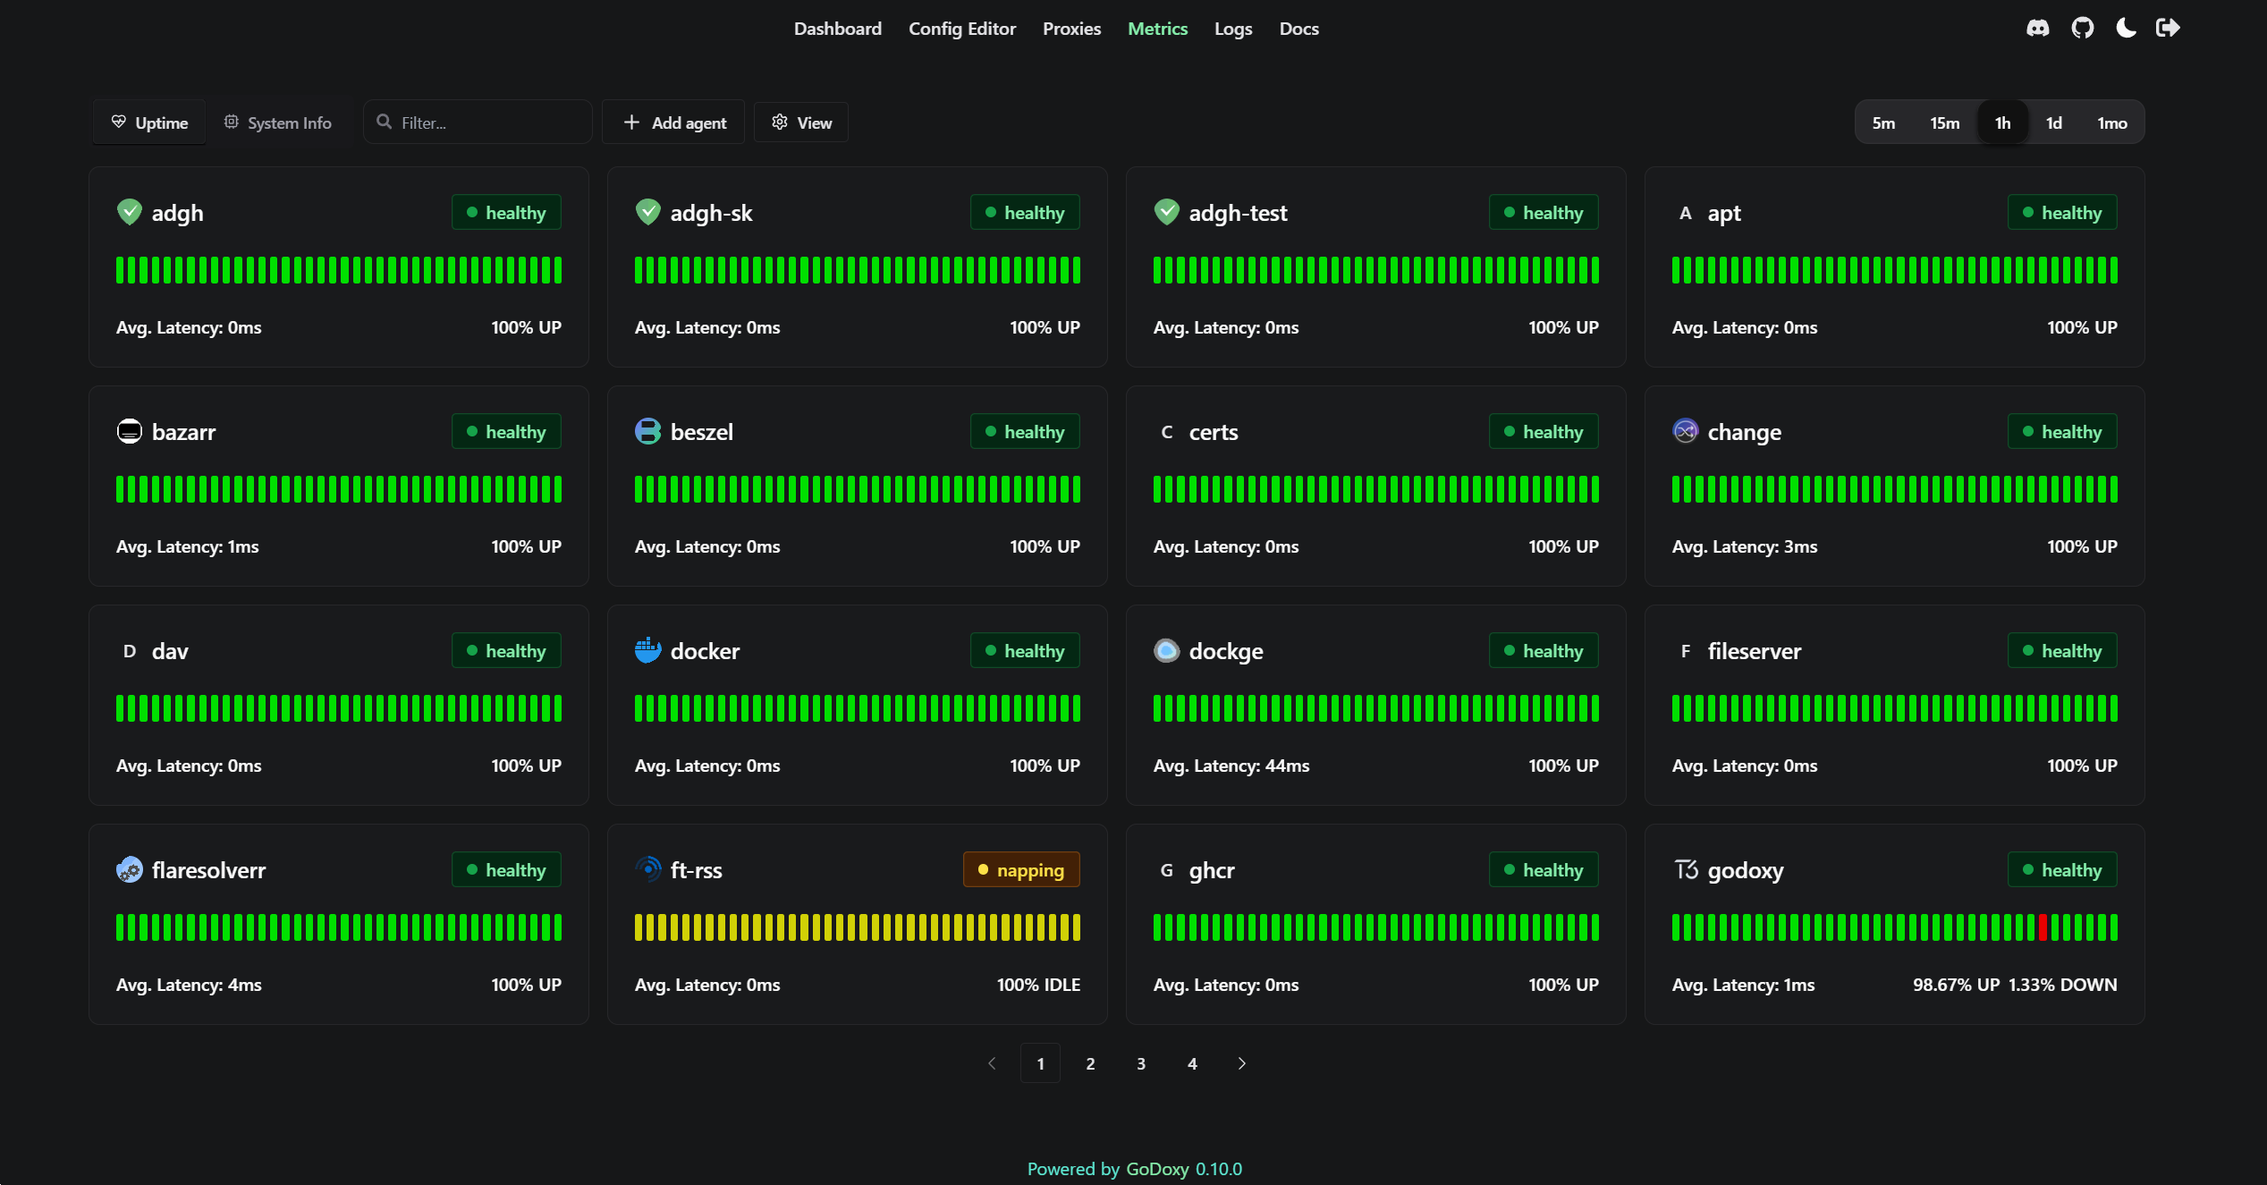
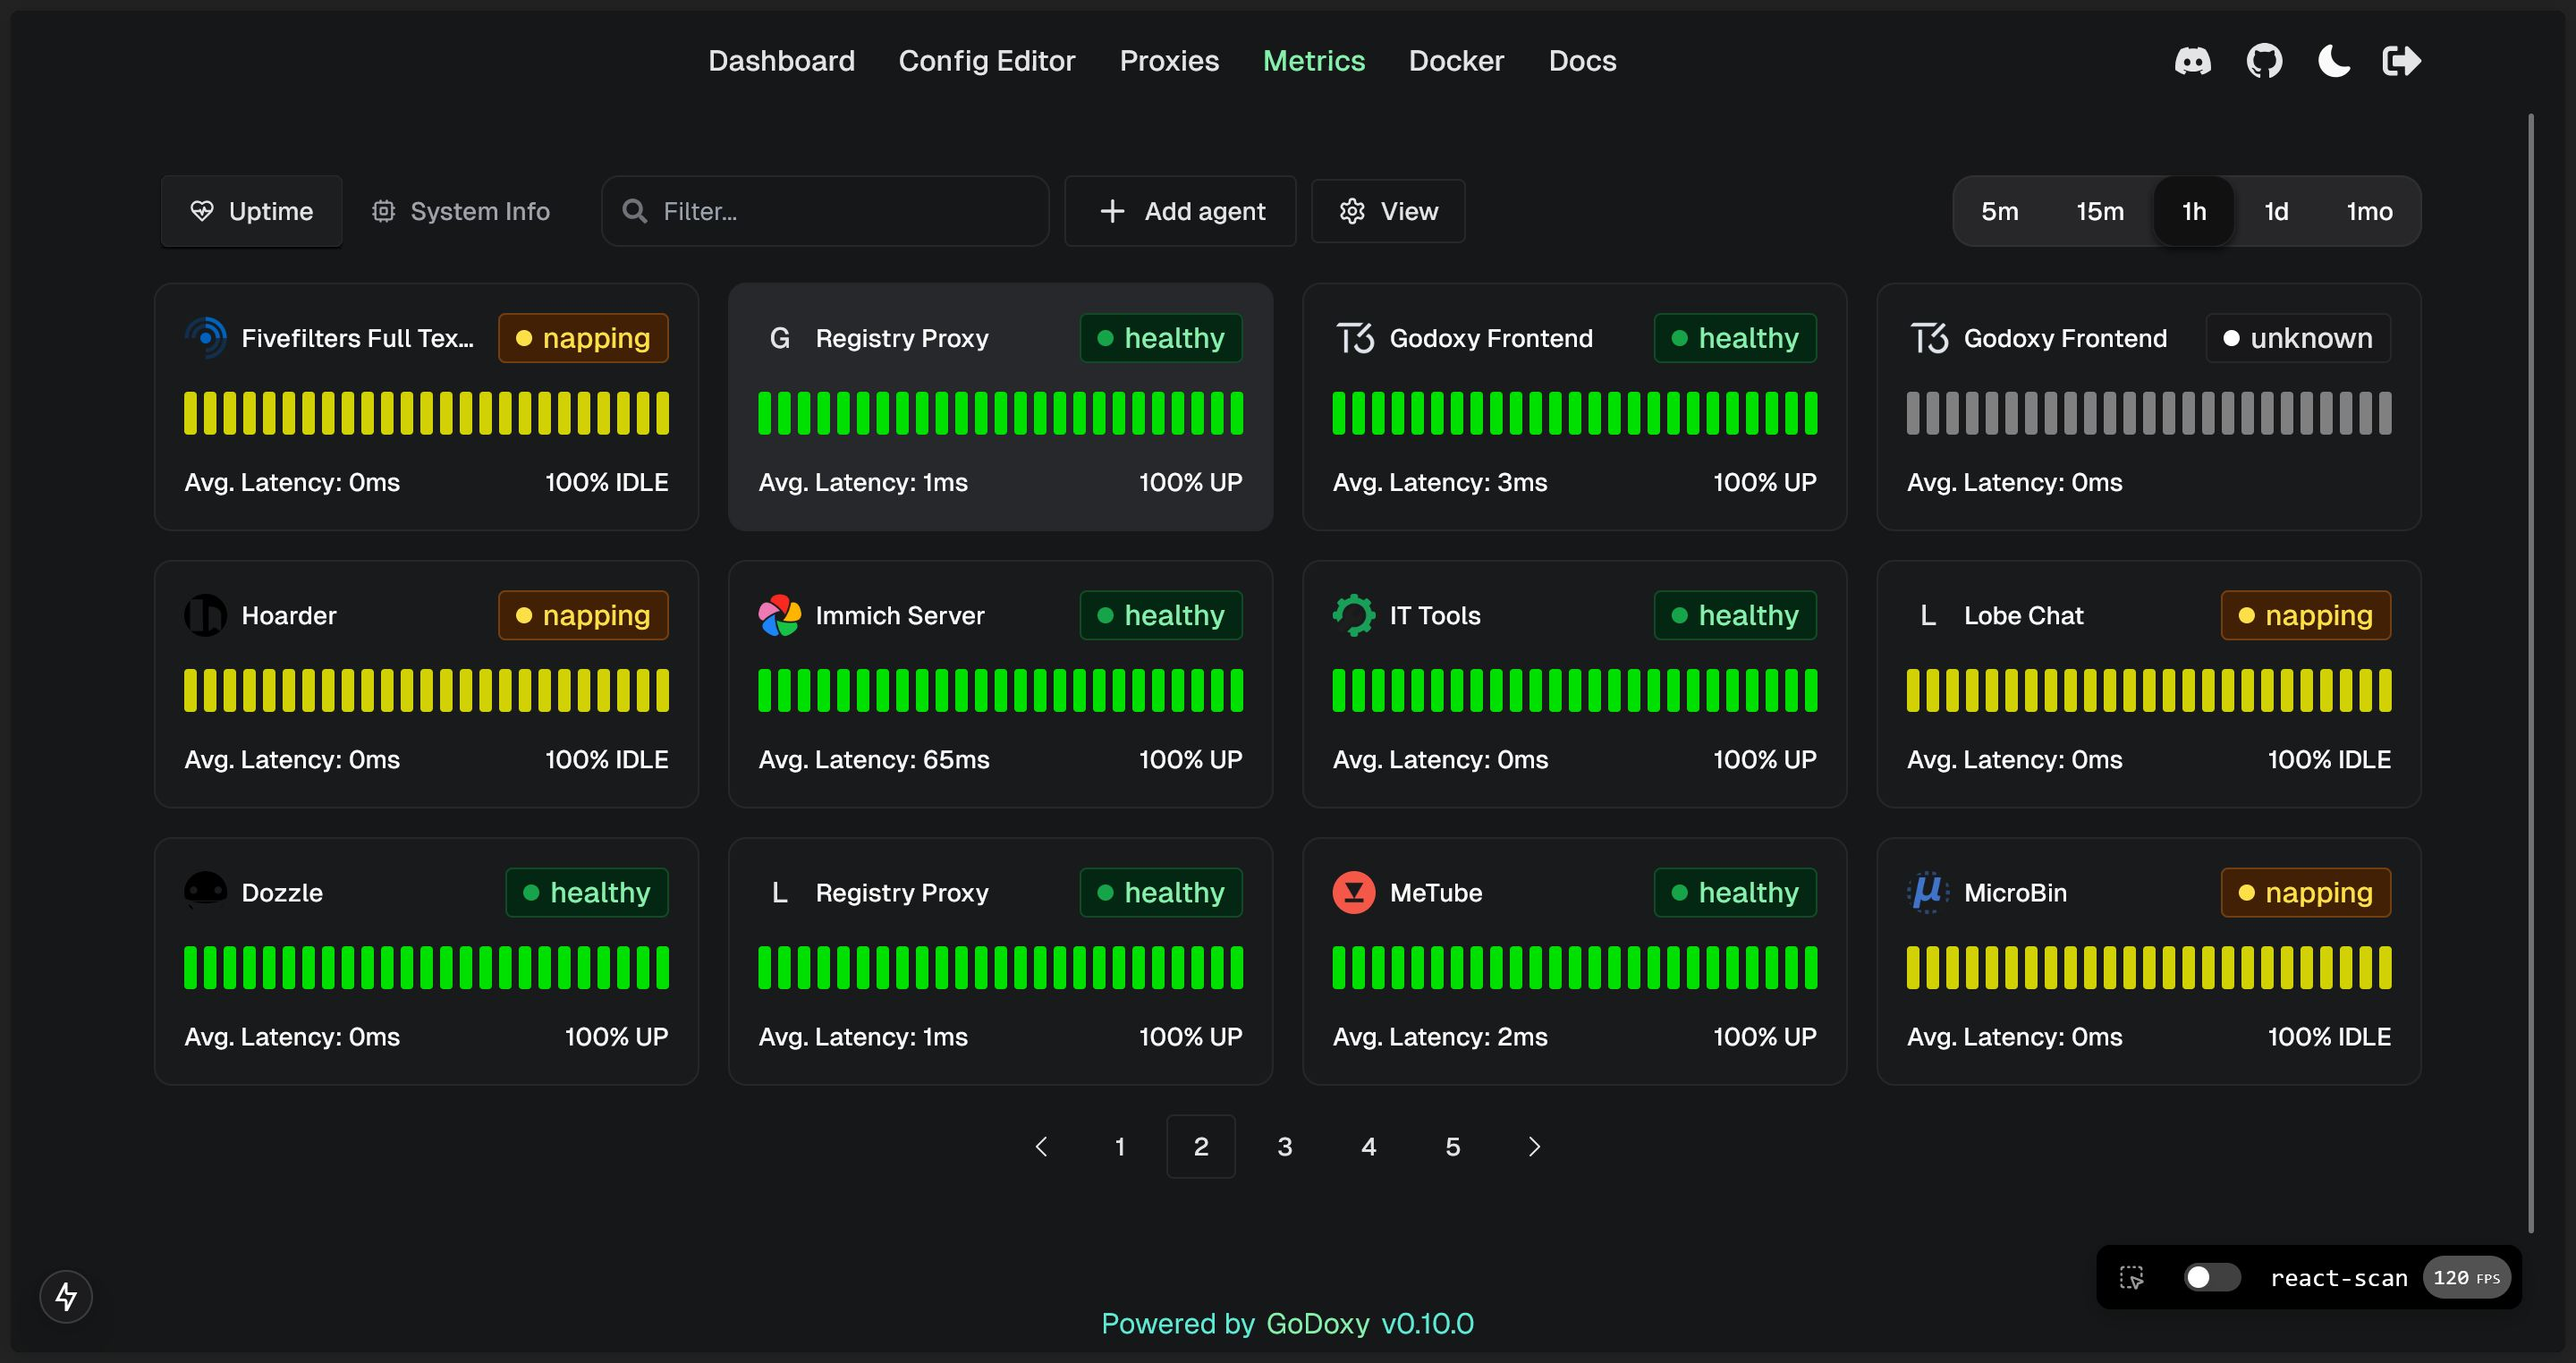
README and screenshots update

diff --git a/README.md b/README.md
@@ -30,10 +30,11 @@ For full documentation, check out **[Wiki](https://github.com/yusing/godoxy/wiki
   - [Key Features](#key-features)
   - [Prerequisites](#prerequisites)
   - [Setup](#setup)
-    - [Manual Setup](#manual-setup)
-    - [Folder structrue](#folder-structrue)
   - [Screenshots](#screenshots)
     - [idlesleeper](#idlesleeper)
+    - [Metrics and Logs](#metrics-and-logs)
+  - [Manual Setup](#manual-setup)
+    - [Folder structrue](#folder-structrue)
   - [Build it yourself](#build-it-yourself)
 
 ## Key Features
@@ -82,7 +83,40 @@ Setup DNS Records point to machine which runs `GoDoxy`, e.g.
 
 [🔼Back to top](#table-of-content)
 
-### Manual Setup
+## Screenshots
+
+### idlesleeper
+
+![idlesleeper](screenshots/idlesleeper.webp)
+
+### Metrics and Logs
+
+<div align="center">
+  <table>
+    <tr>
+      <td align="center"><img src="screenshots/uptime.png" alt="Uptime Monitor" width="250"/></td>
+      <td align="center"><img src="screenshots/docker-logs.jpg" alt="Docker Logs" width="250"/></td>
+      <td align="center"><img src="screenshots/docker.jpg" alt="Server Overview" width="250"/></td>
+    </tr>
+    <tr>
+      <td align="center"><b>Uptime Monitor</b></td>
+      <td align="center"><b>Docker Logs</b></td>
+      <td align="center"><b>Server Overview</b></td>
+    </tr>
+        <tr>
+      <td align="center"><img src="screenshots/system-monitor.jpg" alt="System Monitor" width="250"/></td>
+      <td align="center"><img src="screenshots/system-info-graphs.jpg" alt="Graphs" width="250"/></td>
+    </tr>
+    <tr>
+      <td align="center"><b>System Monitor</b></td>
+      <td align="center"><b>Graphs</b></td>
+    </tr>
+  </table>
+</div>
+
+[🔼Back to top](#table-of-content)
+
+## Manual Setup
 
 1. Make `config` directory then grab `config.example.yml` into `config/config.yml`
 
@@ -116,22 +150,6 @@ Setup DNS Records point to machine which runs `GoDoxy`, e.g.
 │   │   └── system_info.json
 └── .env
 ```
-
-## Screenshots
-
-### idlesleeper
-
-![idlesleeper](screenshots/idlesleeper.webp)
-
-### Uptime Monitor
-
-![uptime monitor](screenshots/uptime.png)
-
-### System Monitor
-
-![system monitor](screenshots/system-monitor.png)
-
-[🔼Back to top](#table-of-content)
 
 ## Build it yourself
 
